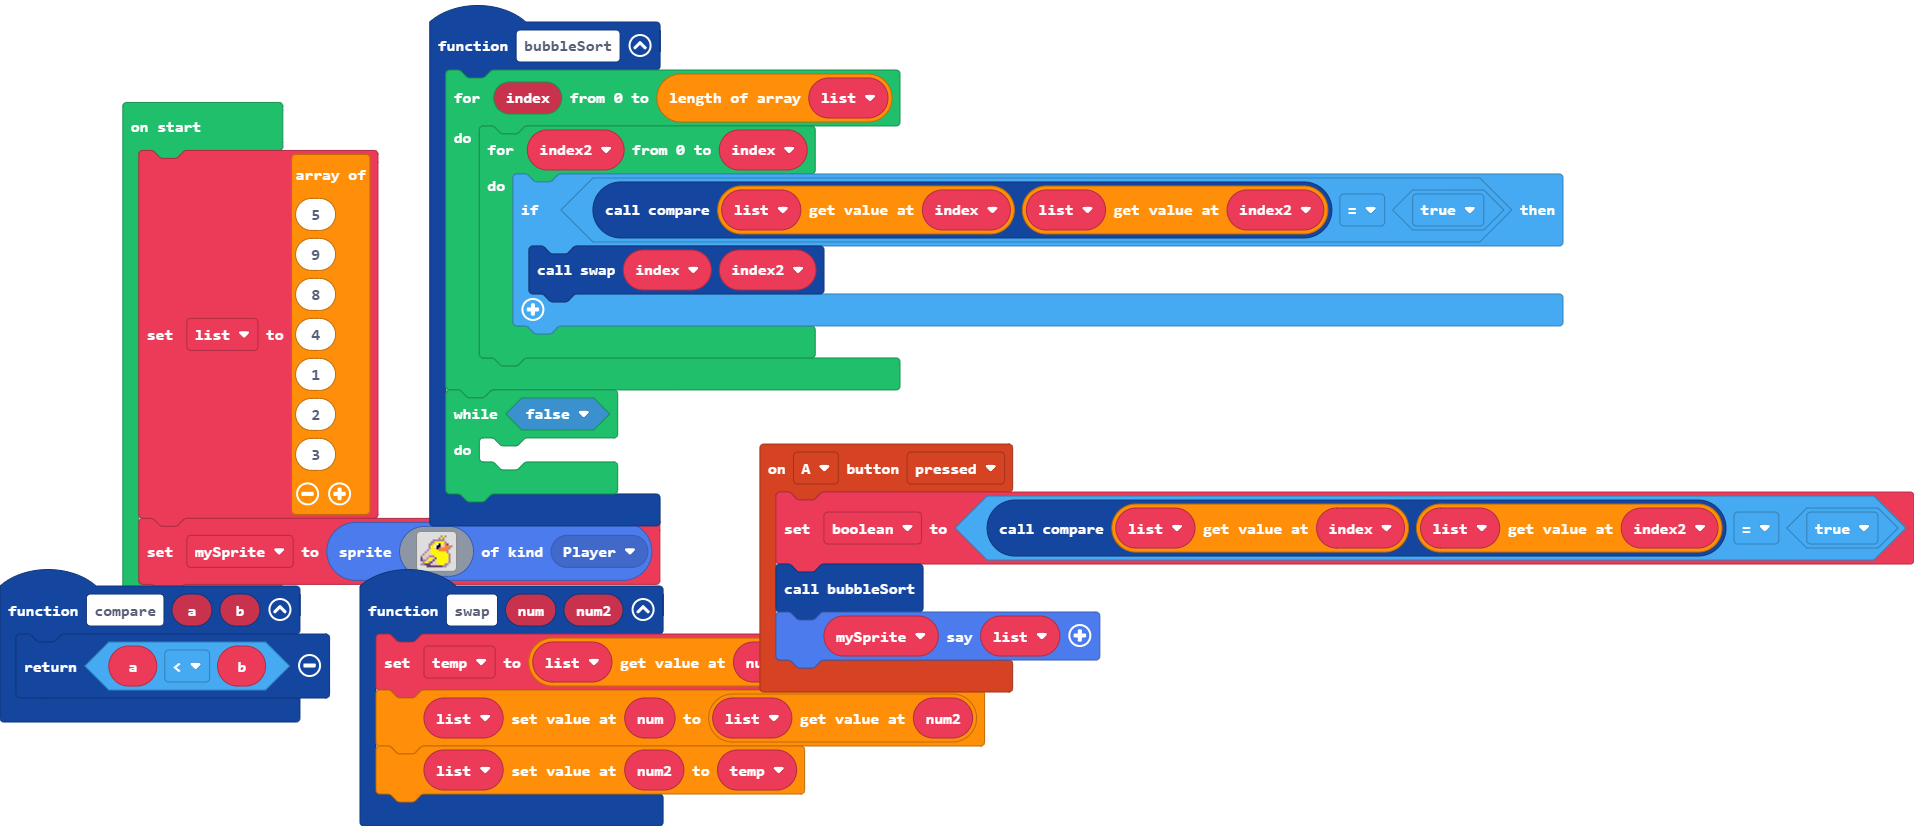
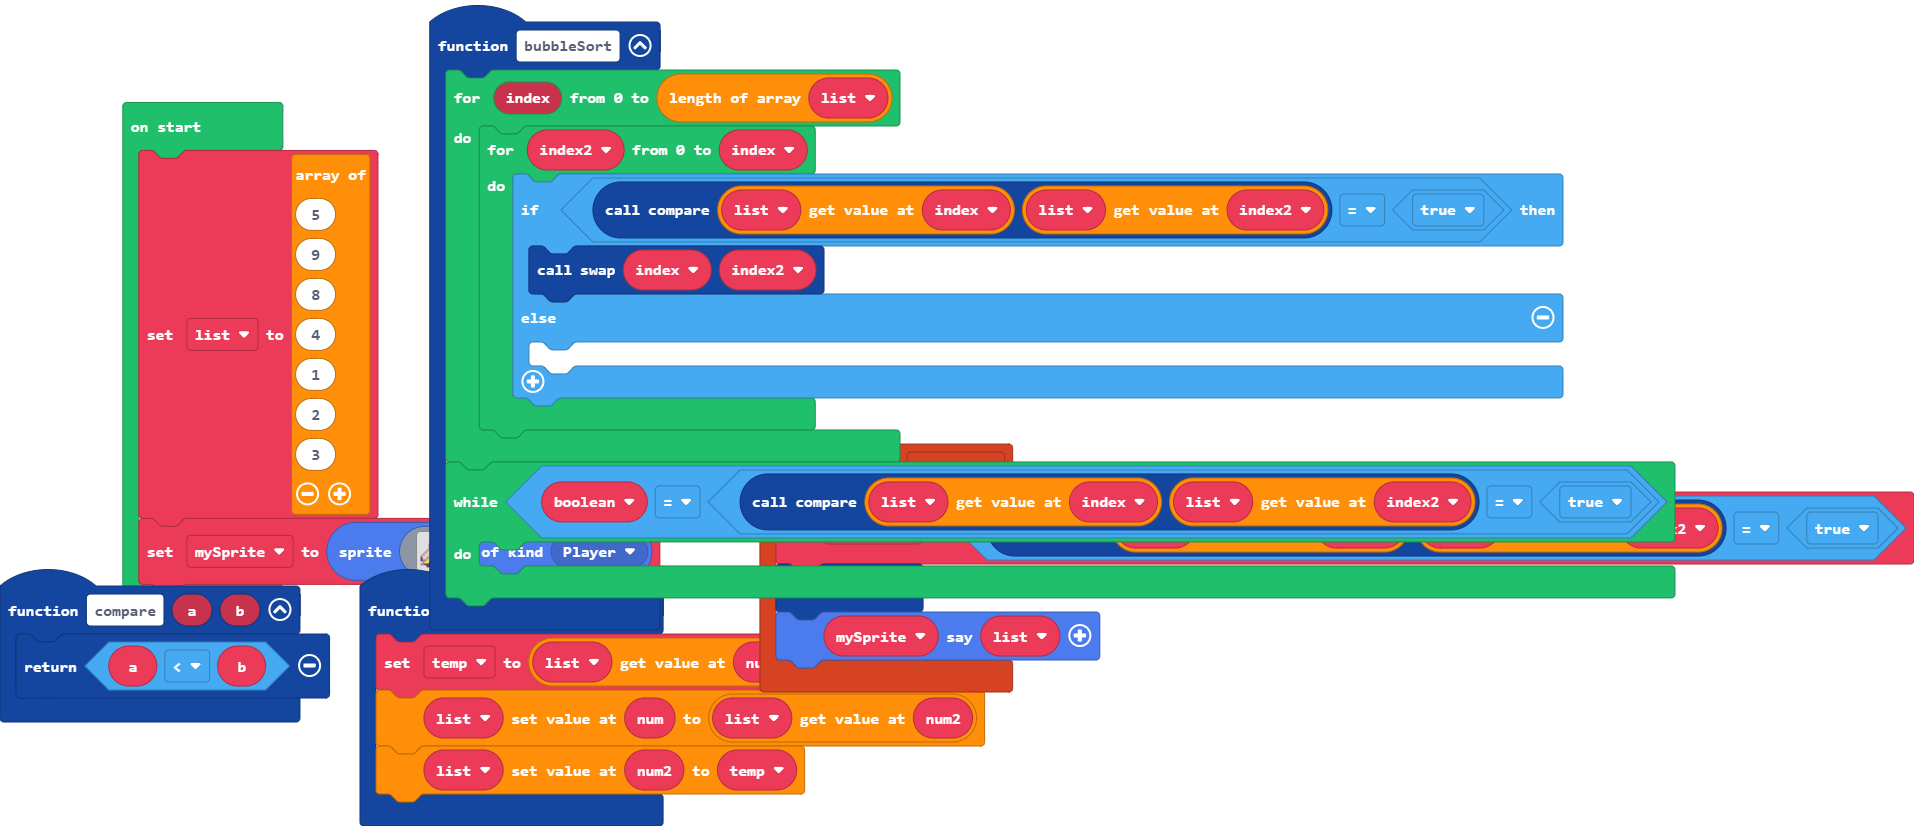
Update main.blocks, main.ts

Changed region(s): [[0.2158, 0.3632, 0.8939, 0.7567]]

diff --git a/main.ts b/main.ts
@@ -4,8 +4,6 @@ function swap (num: number, num2: number) {
     list[num2] = temp
 }
 controller.A.onEvent(ControllerButtonEvent.Pressed, function () {
-    let index2 = 0
-    let index = 0
     boolean = compare(list[index], list[index2]) == true
     bubbleSort()
     mySprite.sayText(list)
@@ -18,13 +16,17 @@ function bubbleSort () {
         for (let index2 = 0; index2 <= index; index2++) {
             if (compare(list[index], list[index2]) == true) {
                 swap(index, index2)
+            } else {
+            	
             }
         }
     }
-    while (false) {
+    while (boolean == (compare(list[index], list[index2]) == true)) {
     	
     }
 }
+let index2 = 0
+let index = 0
 let boolean = false
 let temp = 0
 let mySprite: Sprite = null
